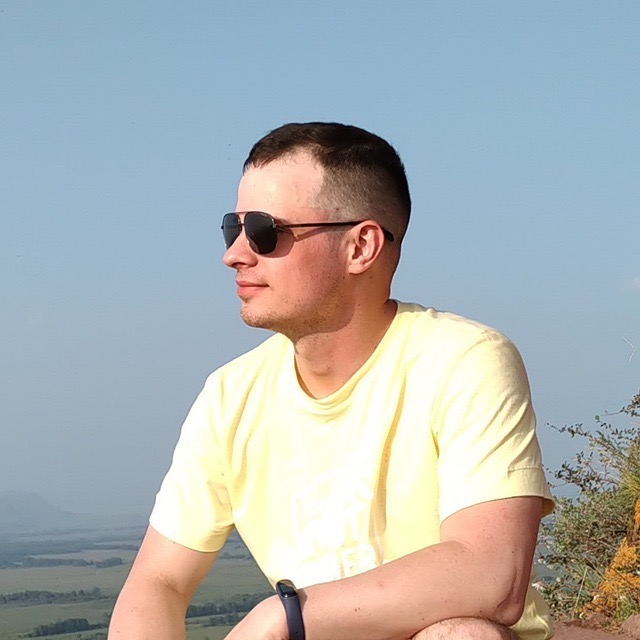
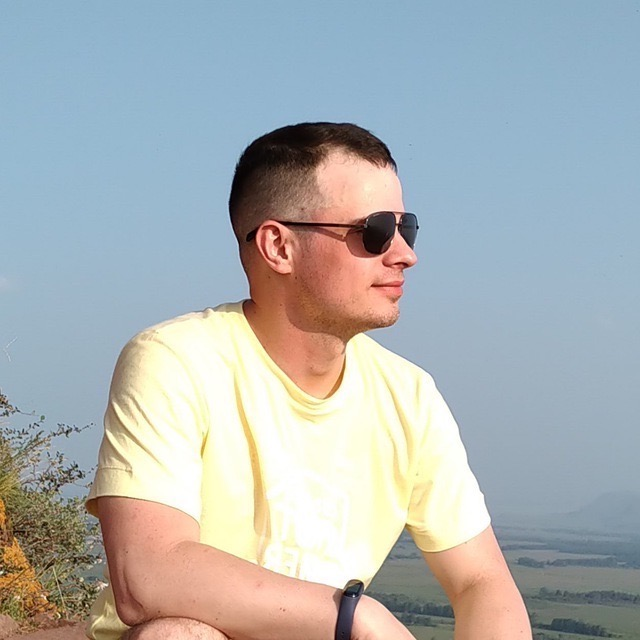
refactor: mirror profile images
Natively

diff --git a/app/components/Experience/Experience.tsx b/app/components/Experience/Experience.tsx
@@ -171,7 +171,10 @@ export default function Experience() {
 										rel="noopener noreferrer"
 										style={{ display: "inline-flex", alignItems: "center" }}
 									>
-										<span>zfx.com</span>{" "}
+										<span className="print-invisible">zfx.com</span>
+										<span className="print-inline-visible">
+											https://www.zfx.com
+										</span>{" "}
 										<FaExternalLinkAlt
 											style={{
 												fontSize: "0.75em",
@@ -183,12 +186,15 @@ export default function Experience() {
 								</li>
 								<li>
 									<a
-										href="https://my.zfx.com/login"
+										href="https://my.zfx.com/"
 										target="_blank"
 										rel="noopener noreferrer"
 										style={{ display: "inline-flex", alignItems: "center" }}
 									>
-										<span>my.zfx.com</span>{" "}
+										<span className="print-invisible">my.zfx.com</span>
+										<span className="print-inline-visible">
+											https://my.zfx.com
+										</span>{" "}
 										<FaExternalLinkAlt
 											style={{
 												fontSize: "0.75em",
@@ -205,7 +211,10 @@ export default function Experience() {
 										target="_blank"
 										style={{ display: "inline-flex", alignItems: "center" }}
 									>
-										<span>its-nu.vercel.app</span>{" "}
+										<span className="print-invisible">its-nu.vercel.app</span>
+										<span className="print-inline-visible">
+											https://its-nu.vercel.app
+										</span>{" "}
 										<FaExternalLinkAlt
 											style={{
 												fontSize: "0.75em",
@@ -331,7 +340,7 @@ export default function Experience() {
 								</dd>
 								<dt>
 									<a
-										href="https://my.zfx.com/login"
+										href="https://my.zfx.com/"
 										target="_blank"
 										rel="noopener noreferrer"
 										style={{
@@ -544,7 +553,7 @@ export default function Experience() {
 										>
 											<span className="print-invisible">dip.tnt4.ru</span>
 											<span className="print-inline-visible">
-												https://dip.tnt4.ru/
+												https://dip.tnt4.ru
 											</span>{" "}
 											<FaExternalLinkAlt
 												style={{
@@ -568,7 +577,7 @@ export default function Experience() {
 										>
 											<span className="print-invisible">subbota.tv</span>
 											<span className="print-inline-visible">
-												https://subbota.tv/
+												https://subbota.tv
 											</span>{" "}
 											<FaExternalLinkAlt
 												style={{
@@ -589,7 +598,10 @@ export default function Experience() {
 											target="_blank"
 											style={{ display: "inline-flex", alignItems: "center" }}
 										>
-											<span>tnt4.ru</span>{" "}
+											<span className="print-invisible">tnt4.ru</span>
+											<span className="print-inline-visible">
+												https://tnt4.ru
+											</span>{" "}
 											<FaExternalLinkAlt
 												style={{
 													fontSize: "0.75em",
@@ -638,10 +650,7 @@ export default function Experience() {
 											color: "inherit",
 										}}
 									>
-										<span className="print-invisible">dip.tnt4.ru</span>
-										<span className="print-inline-visible">
-											https://dip.tnt4.ru/
-										</span>{" "}
+										dip.tnt4.ru{" "}
 										<FaExternalLinkAlt
 											style={{
 												fontSize: "0.75em",
@@ -750,7 +759,7 @@ export default function Experience() {
 															/casting-test
 														</span>
 														<span className="print-inline-visible">
-															subbota.tv/casting-test/
+															https://subbota.tv/casting-test
 														</span>{" "}
 														<FaExternalLinkAlt
 															style={{
@@ -772,7 +781,7 @@ export default function Experience() {
 															/nastroi_subboty
 														</span>
 														<span className="print-inline-visible">
-															subbota.tv/nastroi_subboty/
+															https://subbota.tv/nastroi_subboty
 														</span>{" "}
 														<FaExternalLinkAlt
 															style={{
@@ -801,7 +810,7 @@ export default function Experience() {
 														react-range-gallery
 													</span>
 													<span className="print-inline-visible">
-														andrew-dyachenko.github.io/react-range-gallery/
+														https://andrew-dyachenko.github.io/react-range-gallery
 													</span>{" "}
 													<FaExternalLinkAlt
 														style={{
@@ -852,10 +861,7 @@ export default function Experience() {
 											color: "inherit",
 										}}
 									>
-										<span className="print-invisible">tnt4.ru</span>
-										<span className="print-inline-visible">
-											https://tnt4.ru/
-										</span>{" "}
+										tnt4.ru{" "}
 										<FaExternalLinkAlt
 											style={{
 												fontSize: "0.75em",
@@ -902,7 +908,7 @@ export default function Experience() {
 															/nastroi_tnt4
 														</span>
 														<span className="print-inline-visible">
-															https://tnt4.ru/nastroi_tnt4/
+															https://tnt4.ru/nastroi_tnt4
 														</span>{" "}
 														<FaExternalLinkAlt
 															style={{

diff --git a/app/components/Photo/photo.module.scss b/app/components/Photo/photo.module.scss
@@ -11,7 +11,7 @@
 		height: auto;
 		max-width: 100%;
 
-		@at-root :root:not([dir="rtl"]) & {
+		@at-root :root[dir="rtl"] & {
 			transform: scale(-1, 1); // Flip X
 		}
 	}
